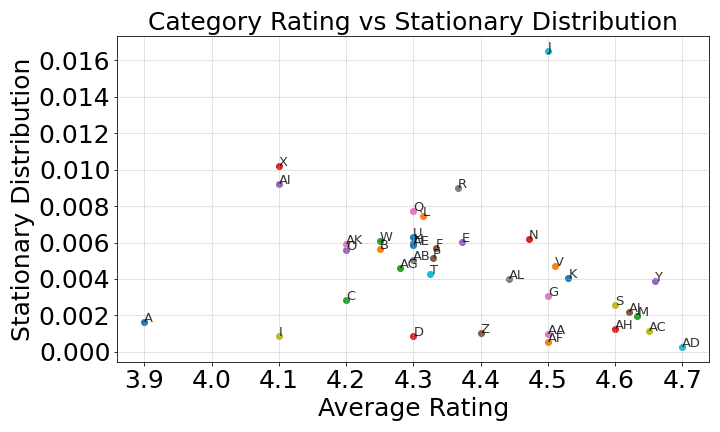
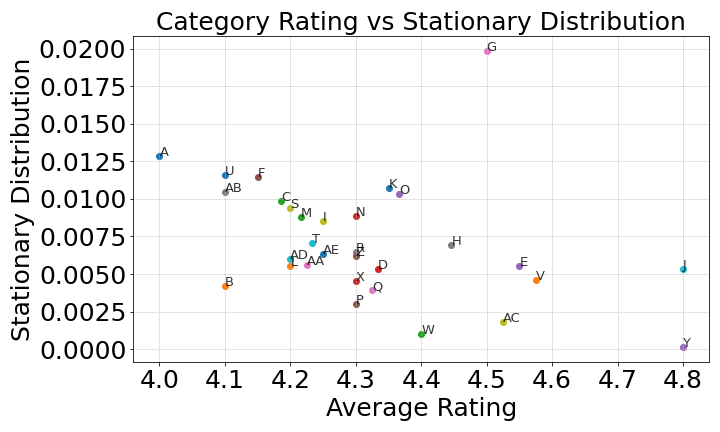
Poisson, graphik, clean

diff --git a/Transition_Network.py b/Transition_Network.py
@@ -13,14 +13,12 @@ import sqlite3
 import json
 import matplotlib.pyplot as plt
 import numpy as np
-import matplotlib.pyplot as plt
 import string
-import itertools
-from scipy import sparse
-import matplotlib.pyplot as plt
-import networkx as nx
 import matplotlib.colors as colors
 import random
+import matplotlib.patches as mpatches
+
+
 # Connect to Database
 conn = sqlite3.connect("cleaned_yelp_data.db")
 cursor = conn.cursor()
@@ -44,9 +42,11 @@ for user in users:
 # Connected all restaurant with at least 1 co visit
 G = nx.Graph()
 
-# Only add edges with ≥1 shared users
+boundary=10 # number of co-visitors for two restuarants to be connected
+
+# Only add edges with ≥boundary shared users
 for (r1, r2), count in co_visits.items():
-    if count >= 1:  
+    if count >= boundary:  
         G.add_edge(r1, r2, weight=count)
 
 # get information of restaurants
@@ -61,9 +61,12 @@ rating_dict = {rid: info[2] for rid, info in restaurant_info.items() if rid in G
 nx.set_node_attributes(G, rating_dict, name="rating") # the rating is the node value
 
 # Compute total transitions per restaurant (for normalization)
+
+
+
 total_transitions = defaultdict(float)
 for (u, v), count in co_visits.items():
-    if count >= 1:
+    if count >= boundary:
         total_transitions[u] += count
         total_transitions[v] += count
 
@@ -87,91 +90,134 @@ for u, v, data in G.edges(data=True):
 
 #%% Plot Graph
 
+
 # Group nodes by cleaned category
 category_to_nodes = defaultdict(list)
 for node in G_dir.nodes:
     category = restaurant_info.get(node, [None]*7)[6]  # cleaned_category
     category_to_nodes[category].append(node)
 
-# 
-selected_categories = [ 'Austrian', 'Vietnamese', 'Fast Food' ]  
-nodes_per_category =10
+# Select categories to visualize
+selected_categories = ['Austrian', 'German' 'Fast Food', 'Vietnamese', 'Chinese']
+nodes_per_category = 10
 
 sample_nodes = []
 for cat in selected_categories:
     nodes = category_to_nodes.get(cat, [])
     if len(nodes) < nodes_per_category:
-        print(f"⚠  Not enough restaurants in '{cat}': only {len(nodes)} available.")
+        print(f"⚠ Not enough restaurants in '{cat}': only {len(nodes)} available.")
     sample = random.sample(nodes, min(nodes_per_category, len(nodes)))
     sample_nodes.extend(sample)
 
 G_sample = G_dir.subgraph(sample_nodes)
 
-# Filter out weak edges (weight < 0.002)
+# Filter out weak edges (weight < 0.001)
 edges_to_keep = [(u, v) for u, v, d in G_sample.edges(data=True) if d["weight"] > 0.001]
 G_sample = G_sample.edge_subgraph(edges_to_keep).copy()
 
-# Compute p_u and category labels
+# Compute visual properties
 p_u_values = {}
 category_labels = {}
 category_colors = {}
 
 categories = list(set(restaurant_info.get(n, [""]*7)[6] for n in G_sample.nodes))
-cmap_nodes = plt.cm.get_cmap("Dark2", len(categories))  # assign color per category
+cmap_nodes = plt.cm.get_cmap("Dark2", len(categories))
 cat_color_map = {cat: cmap_nodes(i) for i, cat in enumerate(categories)}
-
 
 for node in G_sample.nodes:
     info = restaurant_info.get(node)
     rating = info[2]
     category = info[6]
-    name=info[1]
-    p_u = 1 - (rating - 1) / 4
-    p_u_values[node] = round(p_u, 2)
-    category_labels[node] = f"\n{rating, name}" # uncomment if no data issues
+    name = info[1]
+    category_labels[node] = f"{name}\n({rating})"
     category_colors[node] = cat_color_map[category]
 
 # Get edge weights
 edge_weights = [data["weight"] for u, v, data in G_sample.edges(data=True)]
 
-# Draw
-pos = nx.kamada_kawai_layout(G_sample)  # More separation, sometimes better for directed graphs
+# Create figure with extra width for legend
+fig, ax = plt.subplots(figsize=(20, 12))
 
-fig, ax = plt.subplots(figsize=(15, 10))
+# Assign categories for layout
+for node in G_sample.nodes:
+    G_sample.nodes[node]["subset"] = restaurant_info[node][6]
 
-nx.draw_networkx_nodes(G_sample, pos, node_size=300, alpha=0.5,
-                       node_color=[category_colors[n] for n in G_sample.nodes], ax=ax)
+# Generate multipartite layout
+pos = nx.multipartite_layout(G_sample)
+
+# Draw network
+nx.draw_networkx_nodes(
+    G_sample, pos, 
+    node_size=800,
+    node_color=[category_colors[n] for n in G_sample.nodes],
+    alpha=0.8,
+    ax=ax
+)
+
+
+edge_vmin = 0
+edge_vmax = np.percentile(edge_weights, 95)  # Use 95th percentile as max to prevent outlier distortion
+
 
 nx.draw_networkx_edges(
     G_sample,
     pos,
     edge_color=edge_weights,
     edge_cmap=plt.cm.Blues,
-    arrows=True,
-    arrowstyle='-|>',
-    connectionstyle='arc3,rad=0.4',  # curve arrows to reduce overlap
-    arrowsize=30,            # ← Make this bigger (default is 10)
-    width=2.5, 
+    edge_vmin=edge_vmin,
+    edge_vmax=edge_vmax,  # This ensures darkest blue is used
+    width=2,
+    arrows=True,                # Ensure arrows are visible
+    arrowstyle='-|>',           # Standard arrow
+    arrowsize=20,               # Larger arrowhead
+    connectionstyle='arc3,rad=0.2',  # Gentle curves   
     ax=ax
+    
 )
 
 
-nx.draw_networkx_labels(G_sample, pos, labels=category_labels, font_size=10, ax=ax)
-
-# Colorbar for edge weights
-norm = colors.Normalize(vmin=-0.1, vmax=0.1)  # adjsut for better visibility
-sm = plt.cm.ScalarMappable(norm=norm, cmap=plt.cm.Blues)
-sm.set_array(edge_weights)
+sm = plt.cm.ScalarMappable(
+    norm=colors.Normalize(vmin=edge_vmin, vmax=edge_vmax),
+    cmap=plt.cm.Blues
+)
 
 
+nx.draw_networkx_labels(
+    G_sample, pos, 
+    labels=category_labels, 
+    font_size=10,
+    ax=ax
+)
 
+# Create legend
+legend_handles = [
+    mpatches.Patch(color=cat_color_map[cat], label=cat)
+    for cat in sorted(set(restaurant_info[node][6] for node in G_sample.nodes))
+]
 
-cbar = plt.colorbar(sm, ax=ax, shrink=1.2)
-cbar.set_label("Transition Probability", fontsize=26)
-cbar.ax.tick_params(labelsize=26)  
-plt.title("Restaurant Transition Network\nNode Color = Category, Edge Color = Transition Probability", fontsize=26)
-plt.tight_layout()
-#plt.savefig('TransitionNW.png')
+# Add flattened legend
+legend = plt.legend(
+    handles=legend_handles,
+    fontsize=24,
+    bbox_to_anchor=(0, 1.2),
+    loc='upper left',
+    ncol=3,  # Adjust number of columns as needed
+    frameon=False,
+    handletextpad=0.3,
+    columnspacing=0.8
+)
+
+# Add colorbar
+
+cbar = plt.colorbar(sm, ax=ax, shrink=0.7)
+cbar.set_label("Transition Probability", fontsize=24)
+cbar.ax.tick_params(labelsize=22)
+
+# Adjust layout
+
+plt.tight_layout(rect=[0, 0, 0.9, 1])  # Leave 10% space on right for legend
+
+plt.show()
 
 
 

diff --git a/Simulate_Users.py b/Simulate_Users.py
@@ -14,10 +14,13 @@ import matplotlib.pyplot as plt
 from collections import Counter
 import json
 
-''' Create users, by assigning users corresponding to the number of reviews, in addition we assume that 
-users prefer similar restaurants in terms of price and category
-'''
-
+"""
+Simulates how users discover restaurants based on:
+- Price 
+- Category
+We assign to each review one user. Furthermore, for each restaurant each user
+cannot give  more than 1 review.
+"""
 # Load database
 conn = sqlite3.connect("cleaned_yelp_data.db")
 cursor = conn.cursor()
@@ -38,15 +41,16 @@ restaurant_info = {
 number_of_reviews = sum(row[3] for row in rows)
 number_of_users = 1050   # select total number of users (modellign parameter)
 
-#%% Assign number of reviews for each user assuming normal distribution
+#%% Assign number of reviews for each user assuming Poisson distribution
 users = []
 reviews_left = number_of_reviews
 i = 0  # user index, gives number of users who already got their reviews
-
+avg_reviews=20
 while reviews_left > 0 and i < number_of_users:
-    max_possible = min(np.random.normal(30,5), reviews_left)   # 30 = average number of reviews a user is giving, 5 is the variance
-    num_reviews_u = np.random.randint(1, max_possible + 1)  # transforms the ranodm number to an integer
-    
+    avg_reviews = 25
+    num_reviews_u = np.random.poisson(avg_reviews)  
+    max_possible = min(num_reviews_u, reviews_left)  
+   
     users.append({
         'user_id': f"user_{i}",
         'num_reviews': num_reviews_u

diff --git a/fetch_data.py b/fetch_data.py
@@ -10,7 +10,10 @@ import sqlite3
 import requests
 from Key import API_KEY
 
-# Config
+# calls Yelp-API restaurannts, extracts from json and saves as SQL database
+
+# Configuration: specify location and type 
+
 LOCATION = "Berlin"
 TERM = "restaurant"
 LIMIT = 50  # Yelp's per-request limit
@@ -90,4 +93,4 @@ for row in rows:
     print(row)
 
 
-
+conn.close()

diff --git a/ETL.py b/ETL.py
@@ -158,3 +158,4 @@ for row in rows:
     k=k+1
 
 conn.close()
+cleaned_conn.close()

diff --git a/README.md b/README.md
@@ -11,17 +11,20 @@ based on Yelp data. It explores the relationship between **rating** (quality) an
    Fetched restaurant data via the Yelp API ('fetch_data.py').
 
 2. **Data Cleaning**  
-   Standardized categories and stores data in a SQLite database ('Database.py').
+   Standardized categories and stores data in a SQLite database ('ETL.py').
 
 3. **User Simulation**  
    Created synthetic users to simulate co-visitation behavior based on realistic preferences. Here we assumed, that a user
    is prefering restaurants with similar price and category, where price is more important than categroy ('Fake_Users.py').
+   Furthermore, we assume that the number of reviews a visitor is giving is Poisson distributed.
 
 4. **Transition Network Construction**  
-   Built a directed weighted network where nodes are restaurants, and edge weights depend on both co-visitation frequency and rating.
+   Built a directed weighted network where nodes are restaurants, and edge weights depend on both co-visitation frequency and rating. Only 
+   restarants with at least 'boundary' co-visits are connected and part of the final network.
    The lower the rating, the higher the probability of an user to leave the restaurant: p_u = 1 - (rating_u - 1) / 4
    The transition probability from restaurant u to v is proportional to the co-visitation frequency between u and v, normalized by the total number of transitions from u.
-
+    
+    
 5. **Markov Modeling**  
    Applied PageRank to model long-term visitation behavior and compute the stationary distribution.
    Herefore, chose the right damping factor alpha and test statioanry property.
@@ -68,19 +71,19 @@ This visualization reveals how users move across the culinary landscape and help
 ##  Folder and Data Structure
 
 - fetch_data.py # Pulls restaurant data from Yelp API
-- Database.py # Cleans and stores Yelp data
+- ETL.py # Cleans and stores Yelp data
 - cleaned_yelp_data.db # Cleaned Yelp restaurant data in SQLite format
-- Fake_Users.py # Creates synthetic users
+- Simulate_Users.py # Creates synthetic users
 - users.json # Synthetic/anonymized user reviews
 - Transition_Network.py # Builds the network & computes PageRank
 
 
 
-## 🧪 How to Run
+## How to Run
 
 1. Run `fetch_data.py` to pull raw Yelp data.  
-2. Execute `Database.py` to clean and store data.  
-3. Run `Fake_Users.py` to generate synthetic users (if needed).  
+2. Execute `ETL.py` to extract, transform and store data.  
+3. Run `Simulate_Users.py` to generate synthetic users (if needed).  
 4. Execute `Transition_Network.py` to build the network and compute PageRank.
 
 ---
